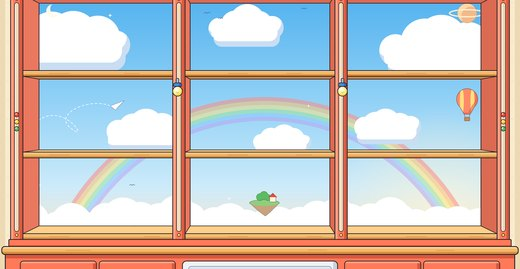
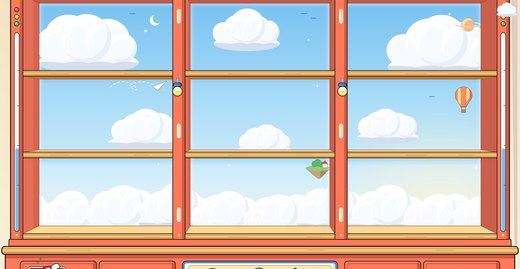
Wonder Shelf: art-review pass (line tiers, cel shadow colours, painted clouds, arched roof, gadget gags); rainbow off

diff --git a/index.html b/index.html
@@ -1049,12 +1049,12 @@ body.portrait:not(.compact) .topbar .lbl{display:none}
 :root[data-theme=sumi] .wall.zoomed .shelf.z::after{background:linear-gradient(180deg,rgba(0,0,0,.10) 0,rgba(0,0,0,.20) 50%,rgba(0,0,0,.30));mix-blend-mode:normal}
 .prop.sprop{position:absolute;bottom:-3px;pointer-events:none}.prop.sprop img{display:block}
 /* ================= Wonder Shelf (TOON_THEME_SPEC): 2D cel animation - rounded type, navy-sky glass, sunflower accent, ink key lines ================= */
-:root[data-theme=toon]{--surround:#2A4C8C;--text:#FFFFFF;--muted:#DCE7FA;--faint:#B3C6E8;--gilt:#FFD23F;--gilt-deep:#E39B2F;--line:rgba(255,210,63,.38);--glass:rgba(32,60,118,.84);--glass-hi:rgba(48,84,152,.92);--ink:#2E2328;--ink-muted:#6A5E64;--ink-red:#E8503A;--ink-line:rgba(46,35,40,.28);
+:root[data-theme=toon]{--surround:#2F64AE;--text:#FFFFFF;--muted:#DCE7FA;--faint:#B3C6E8;--gilt:#FFD23F;--gilt-deep:#E39B2F;--line:rgba(255,210,63,.38);--glass:rgba(32,60,118,.84);--glass-hi:rgba(48,84,152,.92);--ink:#2E2328;--ink-muted:#6A5E64;--ink-red:#E8503A;--ink-line:rgba(46,35,40,.28);
   --f-ui:"Hiragino Maru Gothic ProN","Arial Rounded MT Bold","LibZH","PingFang TC",sans-serif;--f-book:"Hiragino Maru Gothic ProN","LibZH","PingFang TC",sans-serif;--f-display:"Arial Rounded MT Bold","Hiragino Maru Gothic ProN","LibZH","PingFang TC",sans-serif;--f-zhserif:"Hiragino Maru Gothic ProN","PingFang TC",sans-serif}
-:root[data-theme=toon] .stage{background:#2A4C8C}
-:root[data-theme=toon] .topbar{background:linear-gradient(180deg,rgba(32,60,118,.55),rgba(32,60,118,0))}
-:root[data-theme=toon] .bottombar{background:linear-gradient(0deg,rgba(32,60,118,.55),rgba(32,60,118,0))}
-:root[data-theme=toon] .primary{border:2px solid #2E2328;border-radius:22px;background:linear-gradient(180deg,#FFE680 0%,#FFD23F 55%,#F5B92E 100%);color:#2E2328;box-shadow:inset 0 2px 0 rgba(255,255,255,.7),0 3px 0 #2E2328;text-shadow:none;font-weight:400}
+:root[data-theme=toon] .stage{background:#2F64AE}
+:root[data-theme=toon] .topbar{background:linear-gradient(180deg,rgba(47,100,174,.55),rgba(47,100,174,0))}
+:root[data-theme=toon] .bottombar{background:linear-gradient(0deg,rgba(47,100,174,.55),rgba(47,100,174,0))}
+:root[data-theme=toon] .primary{border:2px solid #2E2328;border-radius:22px;background:linear-gradient(180deg,#FFD23F 0 64%,#F2B32B 64% 100%);color:#2E2328;box-shadow:inset 0 2px 0 #FFF1A8,0 3px 0 #2E2328;text-shadow:none;font-weight:400}
 :root[data-theme=toon] .primary:active{transform:translateY(2px);box-shadow:inset 0 2px 0 rgba(255,255,255,.5),0 1px 0 #2E2328}
 :root[data-theme=toon] .primary[disabled]{background:rgba(255,255,255,.12);border-color:rgba(255,255,255,.3);color:rgba(255,255,255,.45);box-shadow:none}
 :root[data-theme=toon] .plate{color:#2E2328;text-shadow:none;font-family:"Arial Rounded MT Bold","Hiragino Maru Gothic ProN",sans-serif;font-weight:400;letter-spacing:.06em}
@@ -1076,7 +1076,7 @@ body.portrait:not(.compact) .topbar .lbl{display:none}
 :root[data-theme=toon] .shelf::after{background:url(themes/toon/shade.webp) no-repeat;background-size:1180px 820px;background-position:var(--sx) var(--sy);mix-blend-mode:multiply;opacity:1}
 :root[data-theme=toon] .spine{box-shadow:none;filter:none!important}
 :root[data-theme=toon] .spine .t.v.eb,:root[data-theme=toon] .spine .t.v.cg{font-family:"Arial Rounded MT Bold","Hiragino Maru Gothic ProN",sans-serif;font-weight:400}
-:root[data-theme=toon] .spine .t{color:#FFFFFF;text-shadow:0 0 1px #2E2328,0 0 1px #2E2328,0 .06em 0 rgba(46,35,40,.55)}
+:root[data-theme=toon] .spine .t{color:#FFFFFF;text-shadow:1px 0 0 #2E2328,-1px 0 0 #2E2328,0 1px 0 #2E2328,0 -1px 0 #2E2328,.7px .7px 0 #2E2328,-.7px .7px 0 #2E2328,.7px -.7px 0 #2E2328,-.7px -.7px 0 #2E2328}
 :root[data-theme=toon] .spine .t.zh{font-family:"Hiragino Maru Gothic ProN","PingFang TC",sans-serif;font-weight:600}
 :root[data-theme=toon] .spine.light .t{color:#2E2328;font-weight:inherit;background:none;box-shadow:none;text-shadow:none}
 :root[data-theme=toon] .spine.light .t::after{display:none}
@@ -1084,9 +1084,10 @@ body.portrait:not(.compact) .topbar .lbl{display:none}
 :root[data-theme=toon] .shelf .genre-tag,:root[data-theme=toon] .shelf .range-tag{background:#FFF3B8;color:#2E2328;box-shadow:0 0 0 1.5px #2E2328,0 2px 0 rgba(46,35,40,.35);border-radius:8px;font-family:"Arial Rounded MT Bold","Hiragino Maru Gothic ProN",sans-serif;font-weight:400;font-size:8.5px;text-shadow:none}
 :root[data-theme=toon] .spine .slip{background:#FFF3B8;box-shadow:0 0 0 1px #2E2328}
 :root[data-theme=toon] .spine .lent{background-color:#FFFFFF}
-:root[data-theme=toon] .spine .sno{color:#FFFFFF;text-shadow:0 0 1px #2E2328,0 0 1px #2E2328}
+:root[data-theme=toon] .spine .sno{color:#FFFFFF;text-shadow:1px 0 0 #2E2328,-1px 0 0 #2E2328,0 1px 0 #2E2328,0 -1px 0 #2E2328,.7px .7px 0 #2E2328,-.7px .7px 0 #2E2328,.7px -.7px 0 #2E2328,-.7px -.7px 0 #2E2328}
 :root[data-theme=toon] .wall.zoomed .shelf.z::after{background:linear-gradient(180deg,rgba(80,70,150,.18) 0,rgba(80,70,150,.18) 8%,transparent 8.5%);mix-blend-mode:multiply}
-:root[data-theme=toon] .wordmark,:root[data-theme=toon] .pager .where,:root[data-theme=toon] .bayname{background:rgba(32,60,118,.78);border-radius:16px;padding:5px 14px 7px;box-shadow:0 0 0 1.5px #2E2328,0 2px 0 rgba(46,35,40,.4)}
+:root[data-theme=toon] .wordmark,:root[data-theme=toon] .pager .where,:root[data-theme=toon] .bayname{background:#3D8FE0;border-radius:16px;padding:5px 14px 7px;box-shadow:0 0 0 2px #2E2328,0 3px 0 #2E2328}
+:root[data-theme=toon] .wordmark b,:root[data-theme=toon] .wordmark span,:root[data-theme=toon] .pager .where,:root[data-theme=toon] .pager .where small,:root[data-theme=toon] .bayname{text-shadow:1px 0 0 #2E2328,-1px 0 0 #2E2328,0 1px 0 #2E2328,0 -1px 0 #2E2328,.7px .7px 0 #2E2328,-.7px .7px 0 #2E2328,.7px -.7px 0 #2E2328,-.7px -.7px 0 #2E2328}
 :root[data-theme=toon] .bayname{padding:4px 16px 6px}
 :root[data-theme=toon] .wordmark b{font-family:"Arial Rounded MT Bold",sans-serif;font-weight:400}
 :root[data-theme=toon] .cover{background-image:none!important;box-shadow:0 0 0 2px #2E2328,4px 5px 0 rgba(46,35,40,.35)!important;border-radius:5px}
@@ -1125,7 +1126,7 @@ const FORMATS = ['Hardback', 'Paperback', 'Ebook', 'Audiobook', 'Library loan', 
 const COLORS = SPR.colors;          // binding colours, same order as the sprite atlas columns
 const STYLES = SPR.styles;          // antique | smooth | label
 /* ---------- colour themes: the classic mahogany room plus recoloured sets under themes/<id>/ ---------- */
-const THEMES = {"classic": {"name": "Classic Mahogany", "blurb": "The original \u2014 polished mahogany, brass lamps, candlelight", "swatch": ["#4a2616", "#c9a45a", "#e9dcc0"], "colors": [], "chrome": "#0b0c0c"}, "sage": {"name": "Sage", "blurb": "Painted sage joinery, limed oak, pewter and afternoon light", "swatch": ["#8E9A88", "#CFCABB", "#EEE8DA"], "colors": ["#4d382a", "#6e5c47", "#70675e", "#2a251f", "#69453b", "#665f57", "#433336", "#3e402d", "#2d3b31", "#292e3c", "#41484d", "#66362a", "VELLUM"], "chrome": "#0b0c0c", "light": [1, 2, 5, 12], "weights": [9, 5, 6, 8, 8, 4, 8, 9, 8, 9, 8, 7, 6], "variants": 2, "rendered": true, "geo": {"flames": [[402.1, 316.0], [777.9, 316.0]], "hoods": [], "sun": [[0, 0], [760, 0], [520, 820], [0, 820]], "ladder": {"x": 847.5, "y": 117.5, "x1": 966.0, "y1": 820.0, "cx": 885.5}}}, "ivory": {"name": "Ivory", "blurb": "Ivory panelled joinery, brushed brass, pleated shades and soft daylight", "swatch": ["#E2DCD1", "#CDBA92", "#2A5450"], "colors": ["#3f281a", "#816a50", "#7f7465", "#211f1e", "#4d3837", "#877b6a", "#3d2a31", "#343927", "#1d423b", "#182032", "#293842", "#58301a", "VELLUM"], "chrome": "#0b0c0c", "light": [1, 2, 5, 12], "weights": [9, 5, 6, 8, 7, 5, 7, 7, 10, 10, 8, 7, 6], "variants": 2, "rendered": true, "geo": {"flames": [[401.5, 328.1], [778.5, 328.1]], "hoods": [], "ladder": {"x": 847.5, "y": 117.5, "x1": 966.0, "y1": 820.0, "cx": 885.5}}}, "sumi": {"name": "Sumi", "blurb": "Dark Japandi: charcoal plaster, smoked oak, washi lanterns at dusk", "swatch": ["#2A1D15", "#CDBFA2", "#B0623E"], "colors": ["#3f2714", "#7e6a51", "#745944", "#16120f", "#4d1e0f", "#83796a", "#301d18", "#3d361d", "#2d321f", "#191f29", "#443929", "#6c3318", "VELLUM"], "chrome": "#0b0c0c", "light": [1, 2, 5, 12], "weights": [9, 6, 6, 9, 7, 5, 7, 8, 8, 9, 7, 8, 6], "variants": 2, "rendered": true, "geo": {"flames": [[402.8, 343.9], [777.2, 343.9]], "hoods": [], "ladder": {"x": 847.5, "y": 118.5, "x1": 966.0, "y1": 820.0, "cx": 885.5}}}, "toon": {"name": "Wonder Shelf", "blurb": "A cartoon gadget bookcase with a daydream sky behind every shelf", "swatch": ["#FF7A59", "#3D8FE0", "#FFD23F"], "colors": ["#cc4633", "#e0b135", "#d87928", "#295294", "#3b9551", "#d98ea7", "#7a56b1", "#378fca", "#1e8f88", "#8d5633", "#94c5a8", "#b93353", "VELLUM"], "chrome": "#0b0c0c", "light": [1, 5, 10, 12], "weights": [8, 7, 7, 8, 8, 4, 7, 8, 7, 6, 6, 6, 5], "variants": 2, "rendered": true, "geo": {"flames": [[402.8, 343.9], [777.2, 343.9]], "hoods": [], "ladder": {"x": 848.0, "y": 118.0, "x1": 961.5, "y1": 820.0, "cx": 885.5}}}};
+const THEMES = {"classic": {"name": "Classic Mahogany", "blurb": "The original \u2014 polished mahogany, brass lamps, candlelight", "swatch": ["#4a2616", "#c9a45a", "#e9dcc0"], "colors": [], "chrome": "#0b0c0c"}, "sage": {"name": "Sage", "blurb": "Painted sage joinery, limed oak, pewter and afternoon light", "swatch": ["#8E9A88", "#CFCABB", "#EEE8DA"], "colors": ["#4d382a", "#6e5c47", "#70675e", "#2a251f", "#69453b", "#665f57", "#433336", "#3e402d", "#2d3b31", "#292e3c", "#41484d", "#66362a", "VELLUM"], "chrome": "#0b0c0c", "light": [1, 2, 5, 12], "weights": [9, 5, 6, 8, 8, 4, 8, 9, 8, 9, 8, 7, 6], "variants": 2, "rendered": true, "geo": {"flames": [[402.1, 316.0], [777.9, 316.0]], "hoods": [], "sun": [[0, 0], [760, 0], [520, 820], [0, 820]], "ladder": {"x": 847.5, "y": 117.5, "x1": 966.0, "y1": 820.0, "cx": 885.5}}}, "ivory": {"name": "Ivory", "blurb": "Ivory panelled joinery, brushed brass, pleated shades and soft daylight", "swatch": ["#E2DCD1", "#CDBA92", "#2A5450"], "colors": ["#3f281a", "#816a50", "#7f7465", "#211f1e", "#4d3837", "#877b6a", "#3d2a31", "#343927", "#1d423b", "#182032", "#293842", "#58301a", "VELLUM"], "chrome": "#0b0c0c", "light": [1, 2, 5, 12], "weights": [9, 5, 6, 8, 7, 5, 7, 7, 10, 10, 8, 7, 6], "variants": 2, "rendered": true, "geo": {"flames": [[401.5, 328.1], [778.5, 328.1]], "hoods": [], "ladder": {"x": 847.5, "y": 117.5, "x1": 966.0, "y1": 820.0, "cx": 885.5}}}, "sumi": {"name": "Sumi", "blurb": "Dark Japandi: charcoal plaster, smoked oak, washi lanterns at dusk", "swatch": ["#2A1D15", "#CDBFA2", "#B0623E"], "colors": ["#3f2714", "#7e6a51", "#745944", "#16120f", "#4d1e0f", "#83796a", "#301d18", "#3d361d", "#2d321f", "#191f29", "#443929", "#6c3318", "VELLUM"], "chrome": "#0b0c0c", "light": [1, 2, 5, 12], "weights": [9, 6, 6, 9, 7, 5, 7, 8, 8, 9, 7, 8, 6], "variants": 2, "rendered": true, "geo": {"flames": [[402.8, 343.9], [777.2, 343.9]], "hoods": [], "ladder": {"x": 847.5, "y": 118.5, "x1": 966.0, "y1": 820.0, "cx": 885.5}}}, "toon": {"name": "Wonder Shelf", "blurb": "A cartoon gadget bookcase with a daydream sky behind every shelf", "swatch": ["#FF7A59", "#3D8FE0", "#FFD23F"], "colors": ["#cc4633", "#e0b135", "#d87928", "#295294", "#3b9551", "#d98ea7", "#7a56b1", "#378fca", "#1e8f88", "#8d5633", "#94c5a8", "#b93353", "VELLUM"], "chrome": "#0b0c0c", "light": [1, 2, 5, 7, 10, 12], "weights": [8, 7, 7, 8, 8, 4, 7, 8, 7, 6, 6, 6, 5], "variants": 2, "rendered": true, "geo": {"flames": [[402.8, 343.9], [777.2, 343.9]], "hoods": [], "ladder": {"x": 845.0, "y": 118.0, "x1": 965.0, "y1": 820.0, "cx": 885.5}}}};
 const CLASSIC_COLORS = COLORS.slice();
 const GEO_THEMED = ['flames', 'hoods', 'ladder', 'sun'], GEO_CLASSIC = Object.fromEntries(GEO_THEMED.map((k) => [k, GEO[k]]));
 function lightBinding(ci) { const t = THEMES[themeId()]; return t && t.light ? t.light.includes(ci) : COLORS[ci] === 'VELLUM'; } // bindings lettered in ink rather than foil

diff --git a/sw.js b/sw.js
@@ -1,7 +1,7 @@
 /* The Library — service worker.
  * Bump VERSION on every deploy that changes any precached file, so clients pick up the new shell.
  */
-const VERSION = 'lib-v56';
+const VERSION = 'lib-v57';
 
 const SHELL_CACHE = 'shell-' + VERSION;
 const COVERS_CACHE = 'covers';          // shared across versions, capped below
